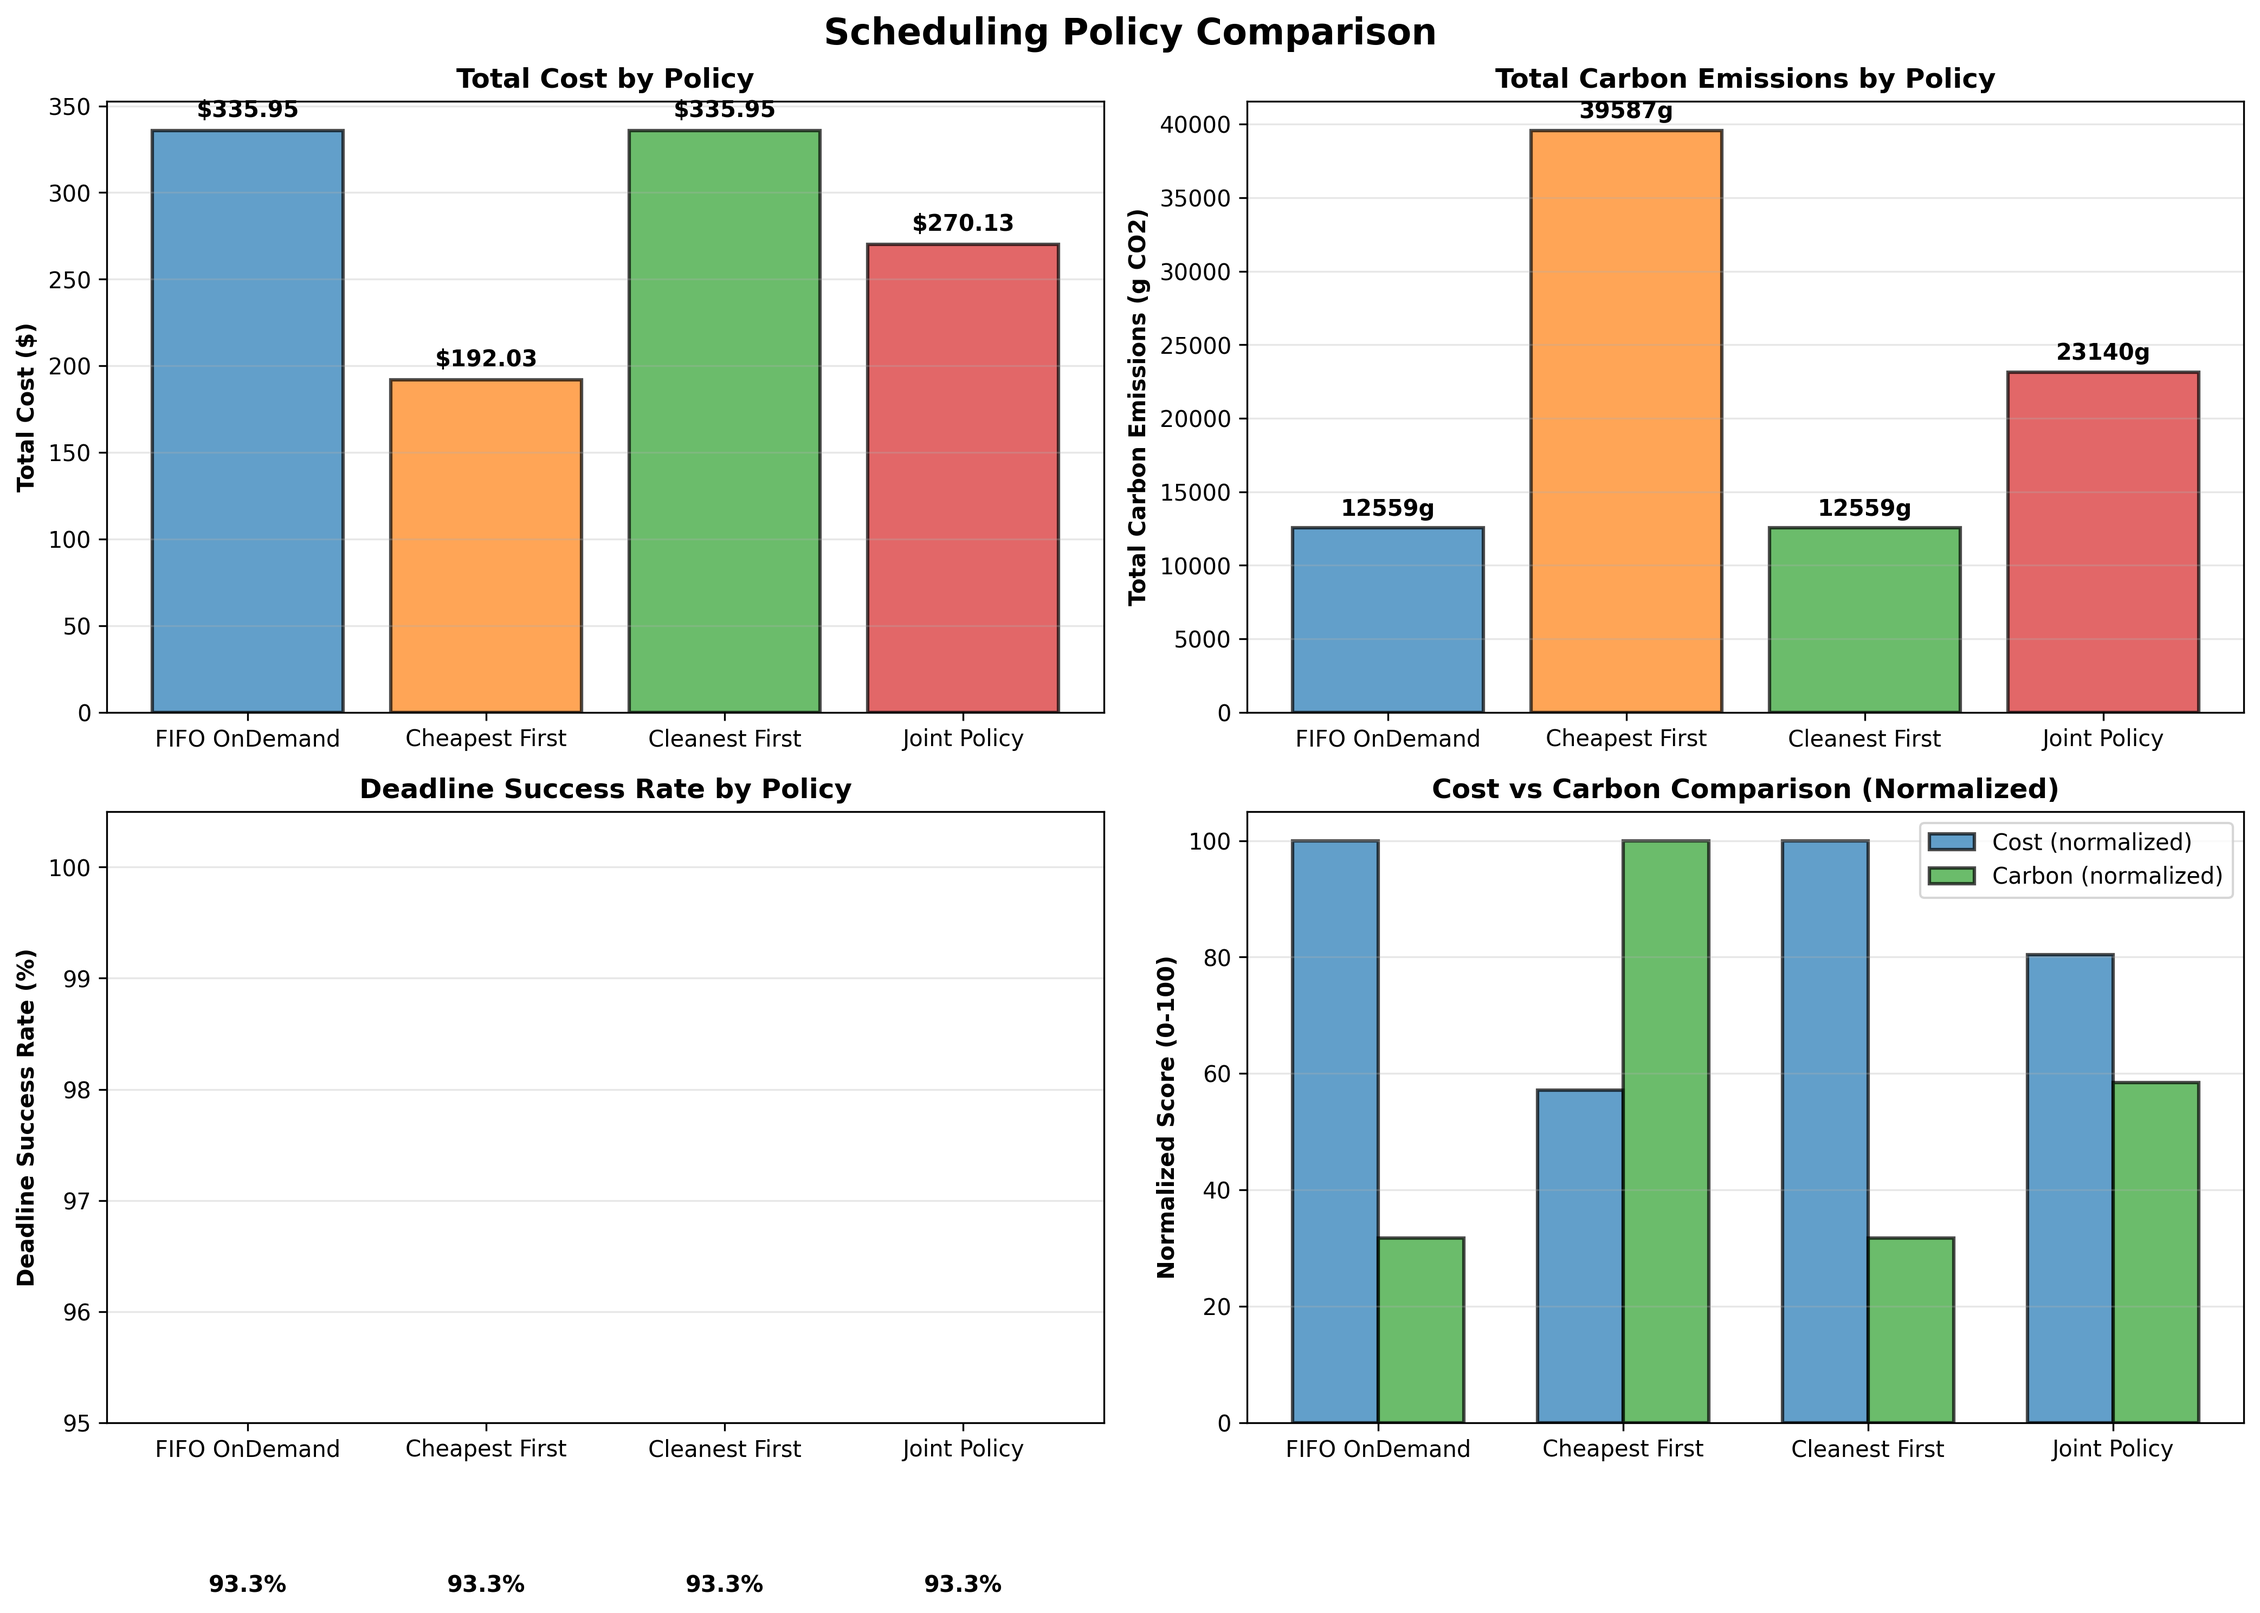
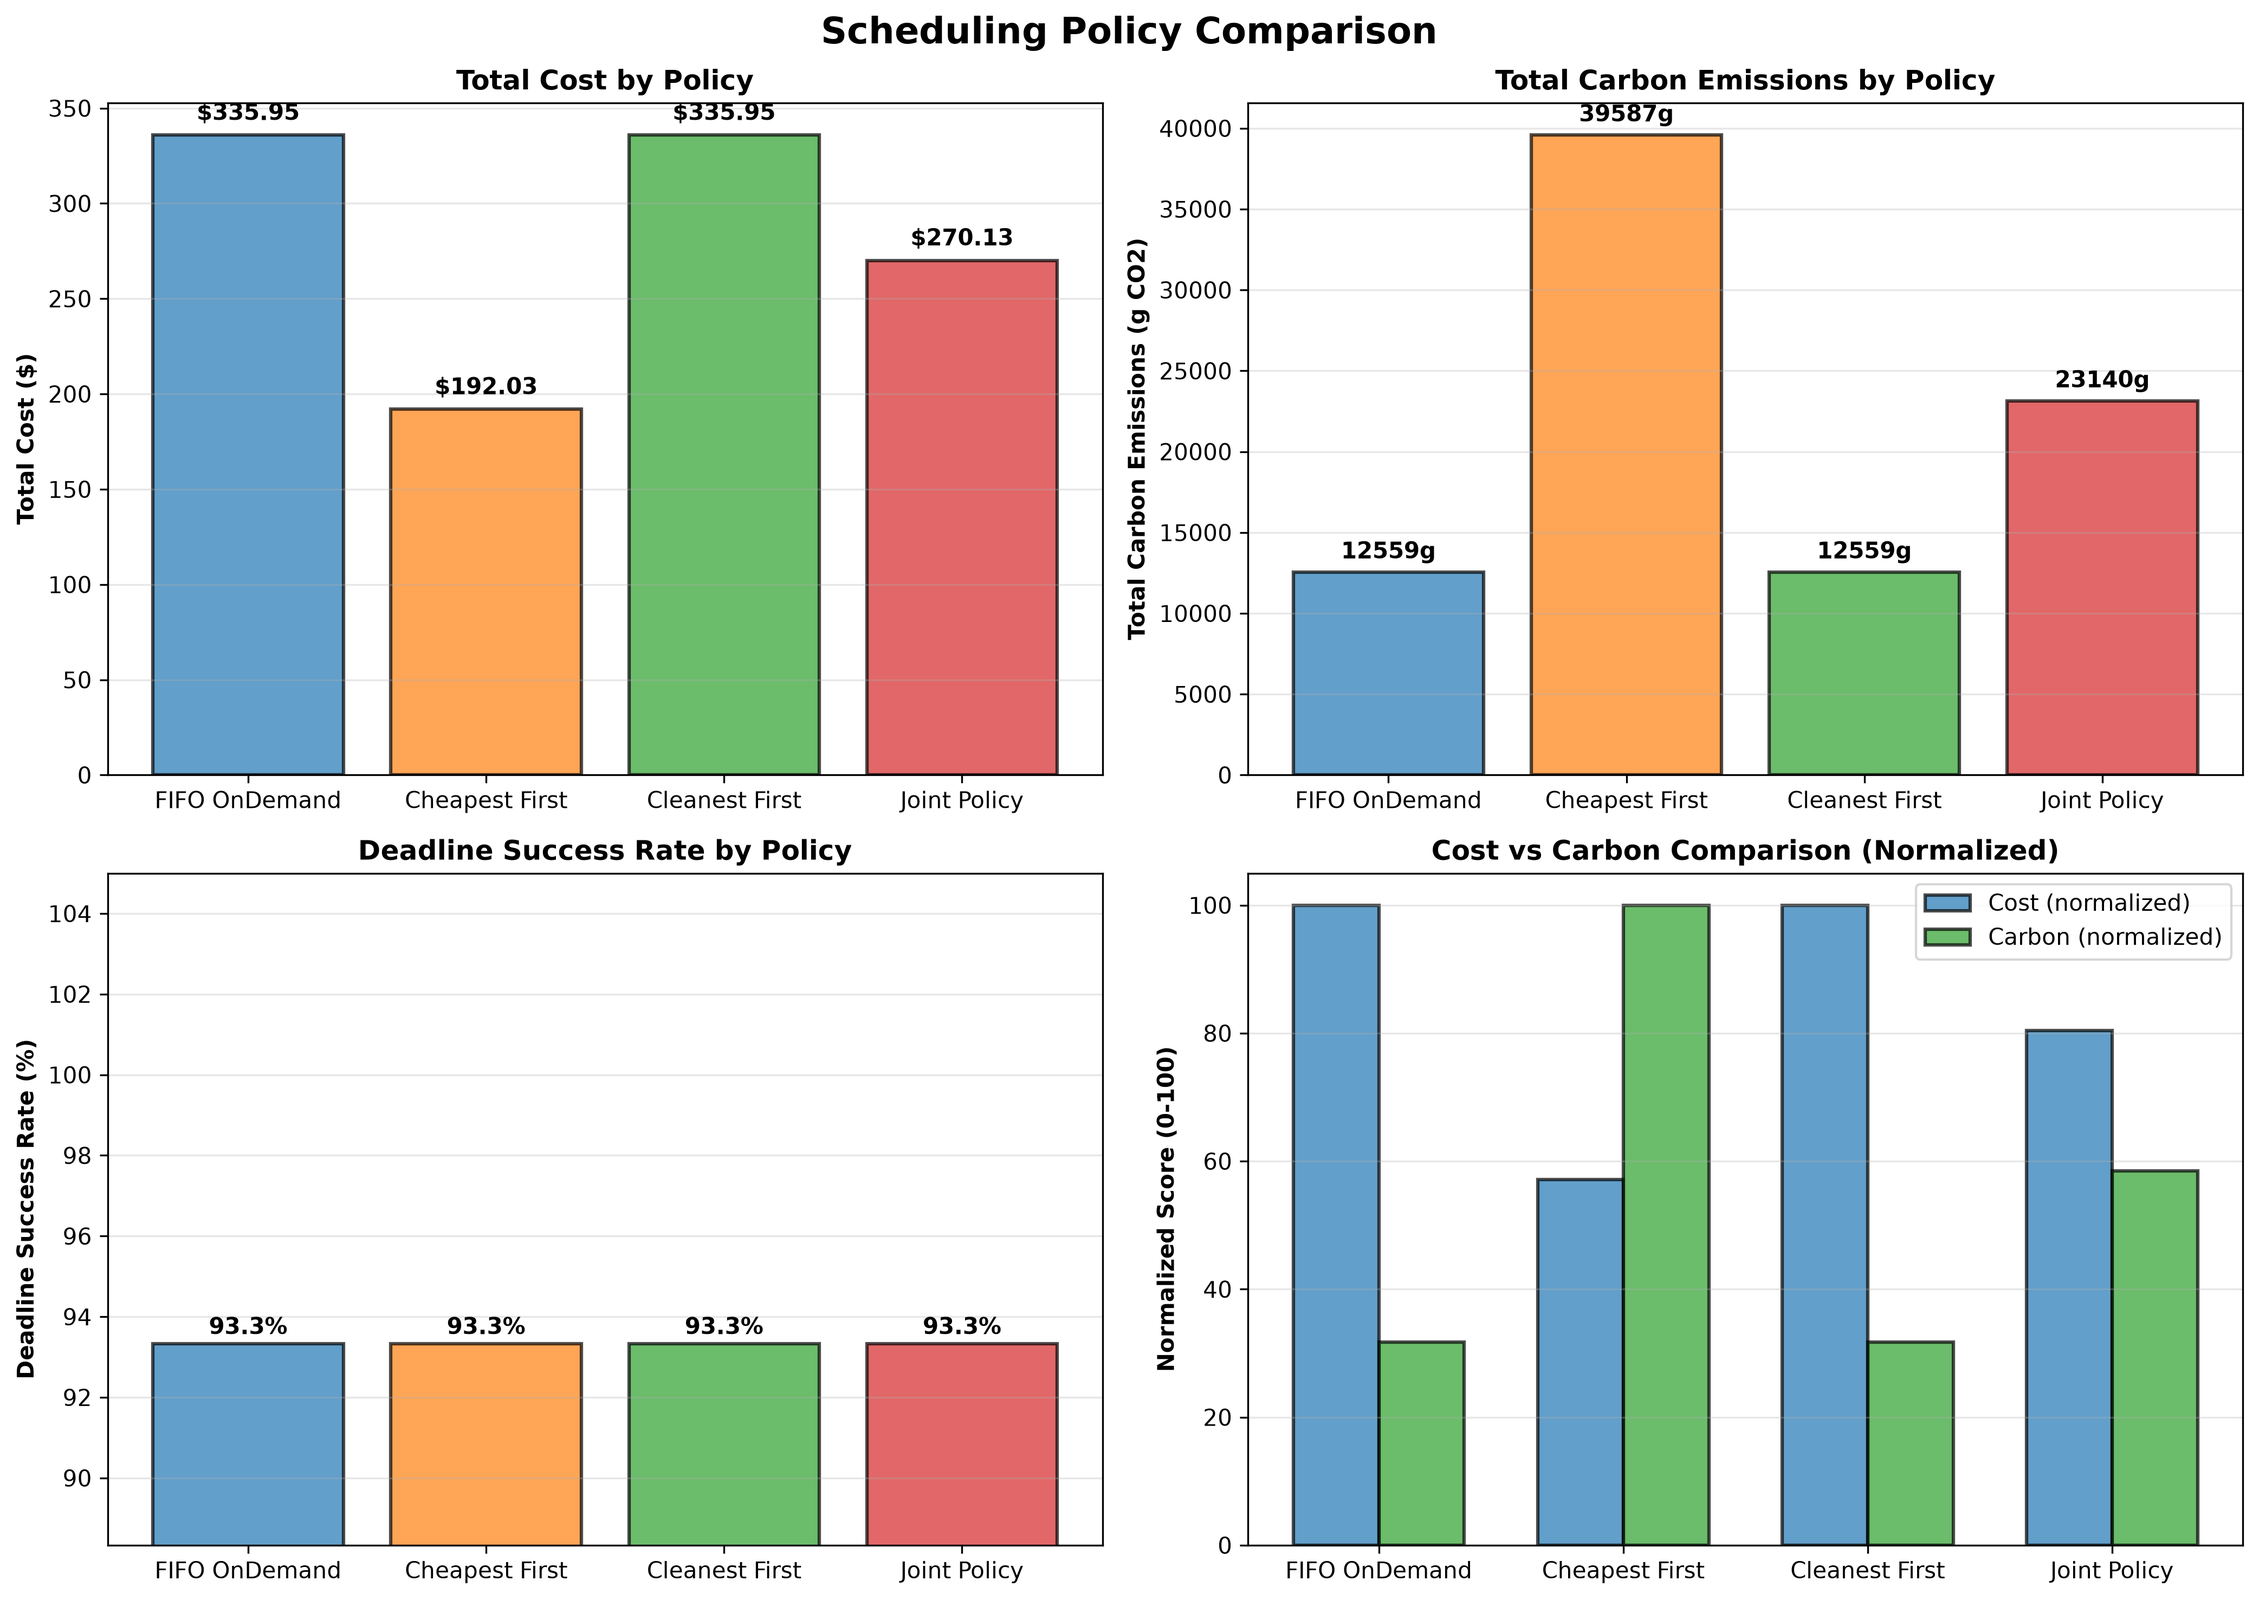
Fix deadline chart y-axis and inaccurate success-rate print statement

diff --git a/src/metrics/compare_policies.py b/src/metrics/compare_policies.py
@@ -163,7 +163,7 @@ def run_comparison():
     bars = ax.bar(policy_names, deadline_rates, color=colors, alpha=0.7, edgecolor="black", linewidth=1.5)
     ax.set_ylabel("Deadline Success Rate (%)", fontweight="bold")
     ax.set_title("Deadline Success Rate by Policy", fontweight="bold")
-    ax.set_ylim([95, 100.5])
+    ax.set_ylim([max(0, min(deadline_rates) - 5), 105])
     ax.grid(axis="y", alpha=0.3)
     for i, (bar, rate) in enumerate(zip(bars, deadline_rates)):
         ax.text(bar.get_x() + bar.get_width()/2, rate + 0.1, f"{rate:.1f}%", 
@@ -206,7 +206,7 @@ def run_comparison():
           f"({100*(fifo_cost-results['Joint Policy']['total_cost'])/fifo_cost:.1f}% savings vs FIFO)")
     print(f"✓ Joint Policy carbon: {results['Joint Policy']['total_carbon']:.0f}g CO2 " +
           f"({100*(fifo_carbon-results['Joint Policy']['total_carbon'])/fifo_carbon:.1f}% reduction vs FIFO)")
-    print(f"✓ All policies achieved 100% deadline success rate")
+    print(f"✓ Deadline success rates: " + ", ".join(f"{p}: {r['deadline_success_rate']:.1f}%" for p, r in results.items()))
     print(f"\n✓ Results saved to:")
     print(f"  - {csv_path}")
     print(f"  - {png_path}")
